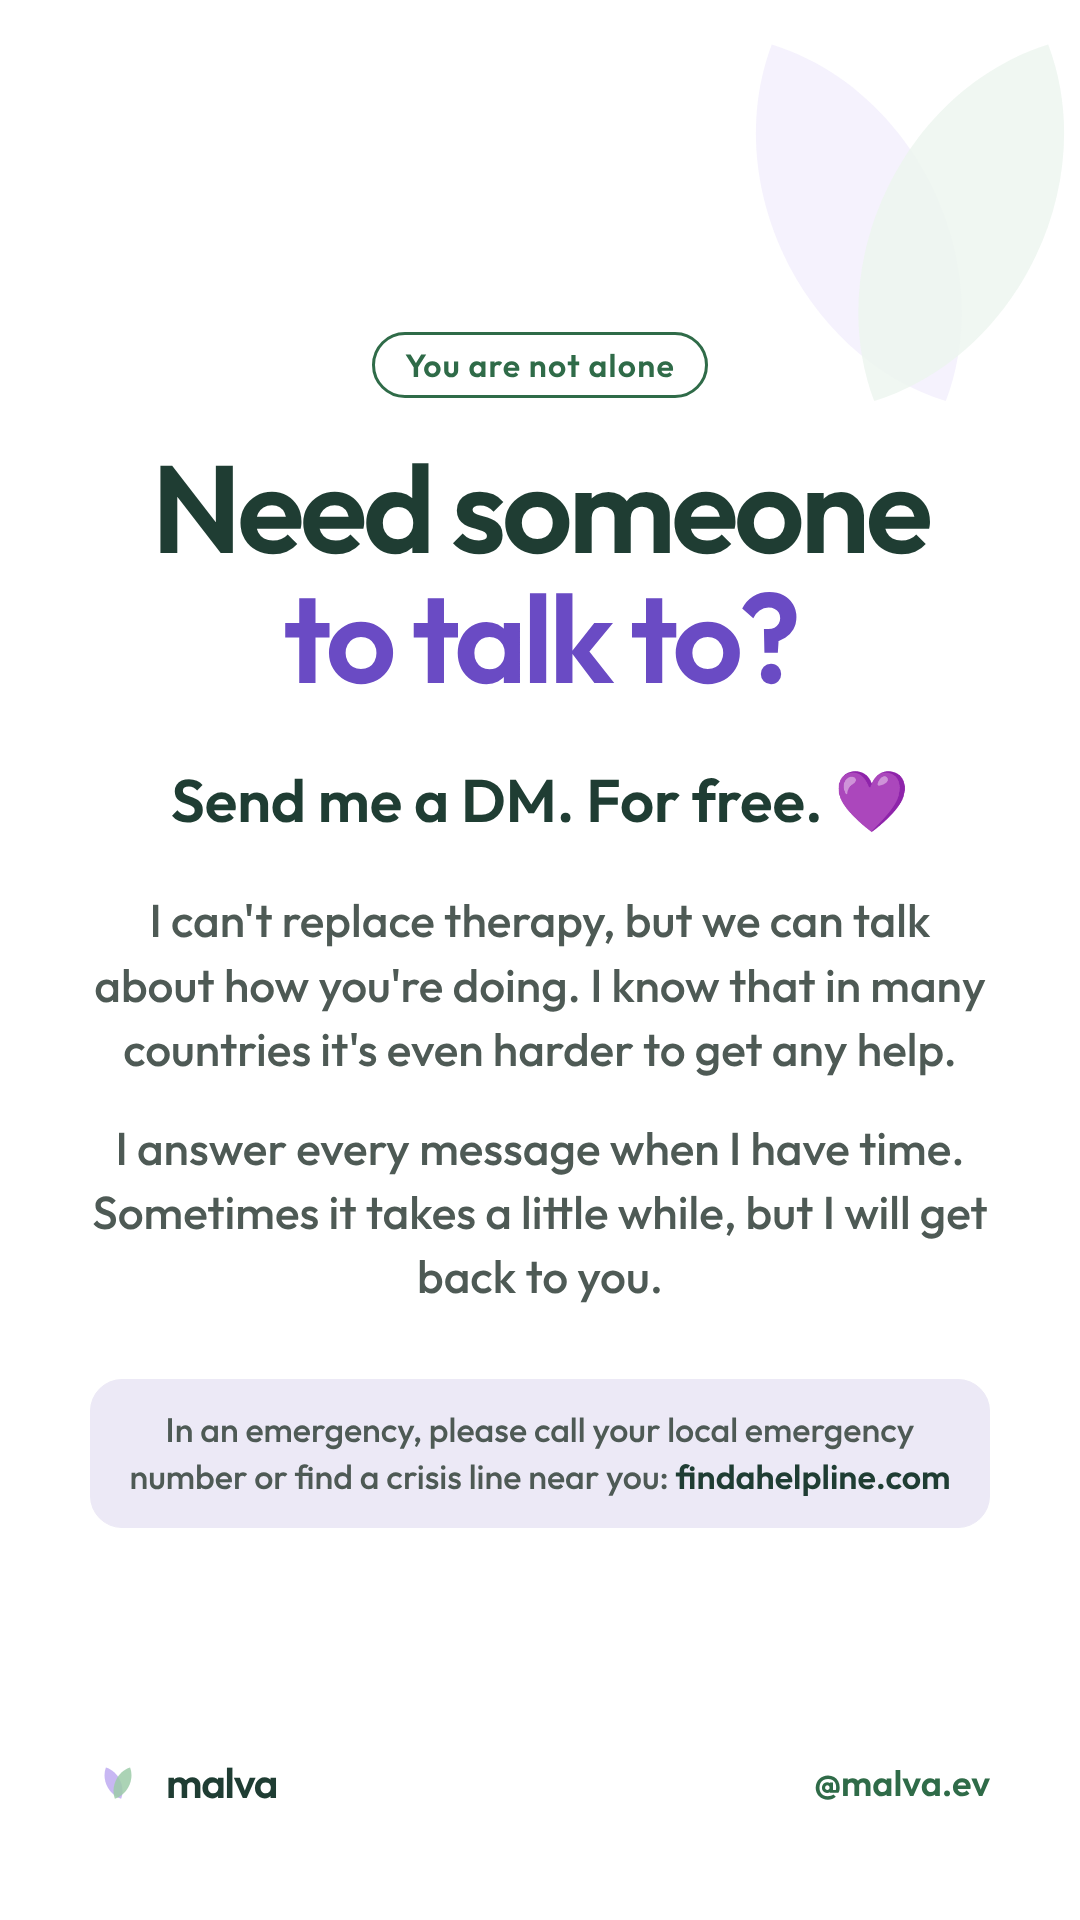
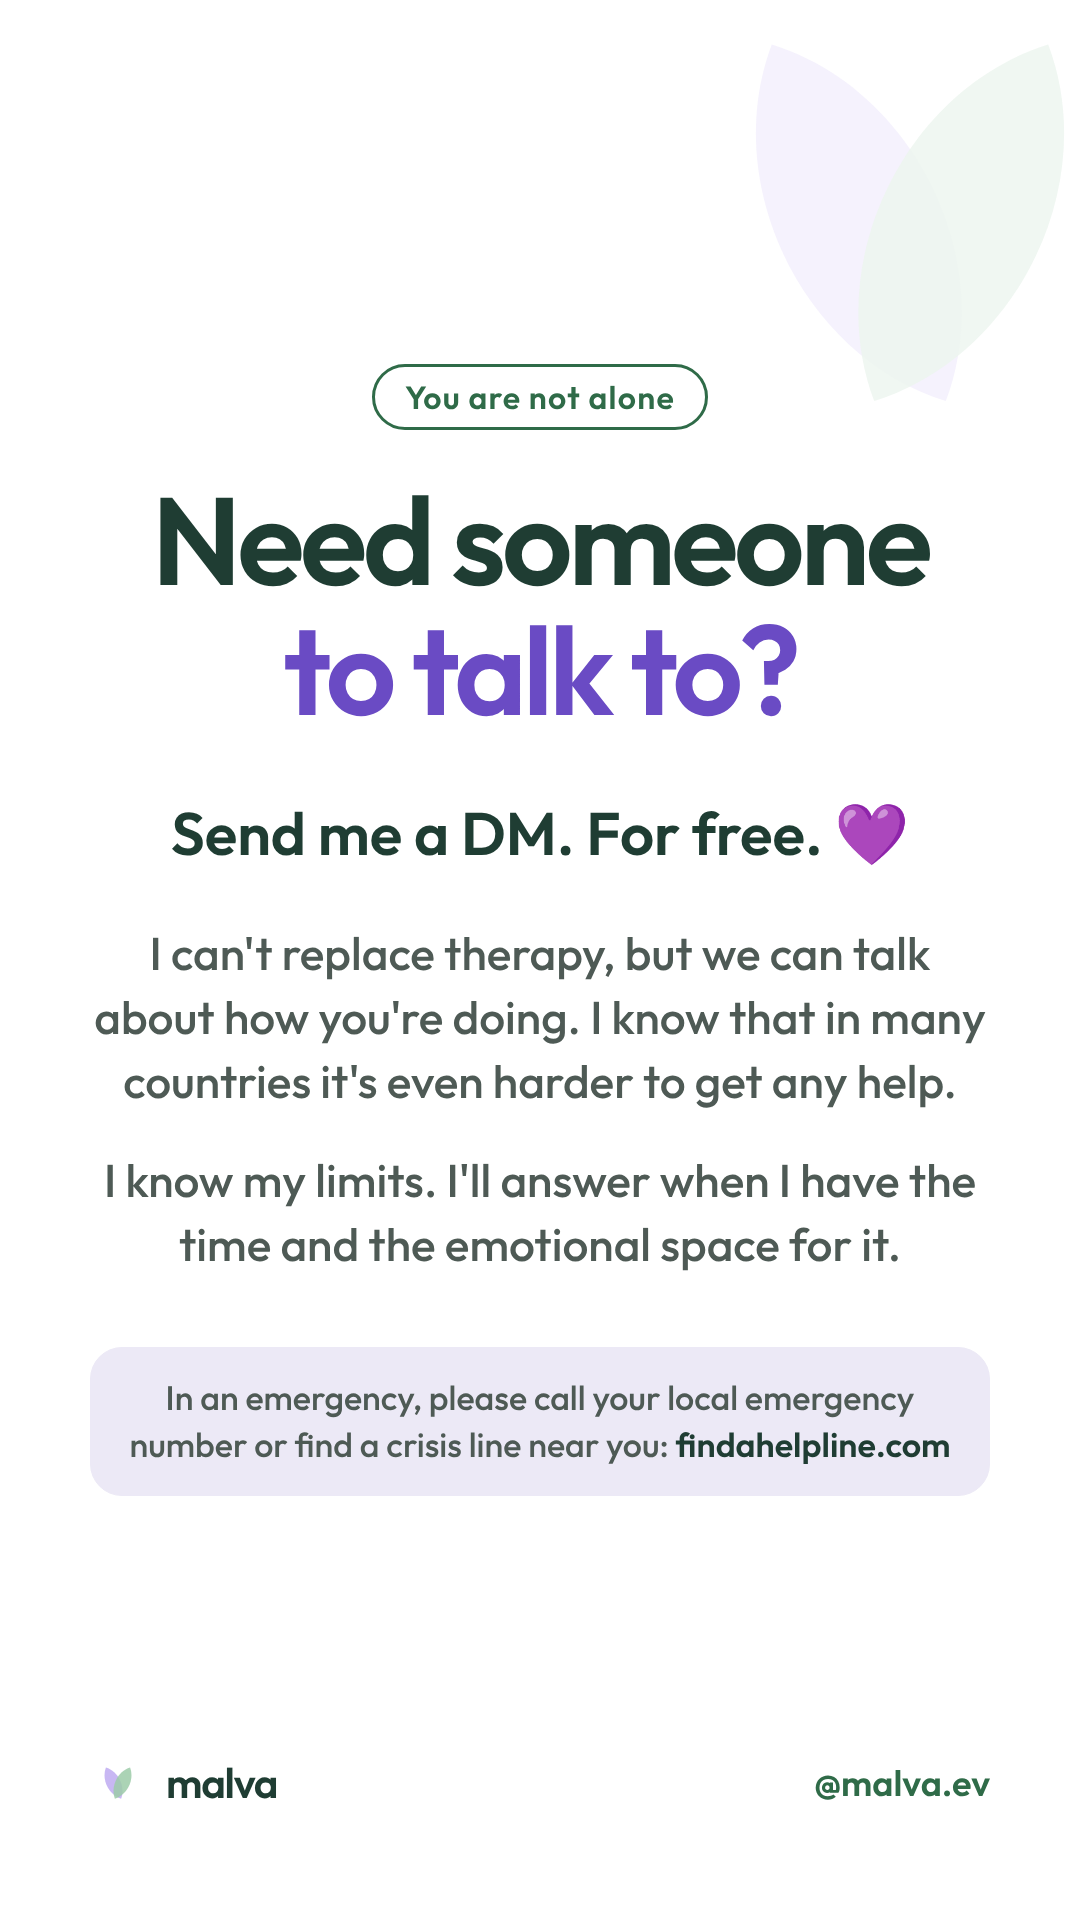
Story Schreib mir: Grenzen
Claude-Session: https://claude.ai/code/session_015uEer6M6e5oi78ZvJtGjnt

Changed region(s): [[0.0917, 0.4062, 0.9167, 0.6875], [0.1528, 0.1875, 0.8556, 0.375], [0.1222, 0.7188, 0.8861, 0.7812]]

diff --git a/malva-website/instagram/giving-tuesday/stories.html b/malva-website/instagram/giving-tuesday/stories.html
@@ -144,7 +144,7 @@ if(kind==='count'){
   <h1 style="font-size:124px">Need someone <span class="hl">to talk to?</span></h1>
   <p class="de" style="font-size:60px;margin-top:56px;color:var(--c);font-weight:600">Send me a DM. For free. 💜</p>
   <p class="de" style="font-size:46px;margin-top:46px;line-height:1.4">I can't replace therapy, but we can talk about how you're doing. I know that in many countries it's even harder to get any help.</p>
-  <p class="de" style="font-size:46px;margin-top:34px;line-height:1.4">I answer every message when I have time. Sometimes it takes a little while, but I will get back to you.</p>
+  <p class="de" style="font-size:46px;margin-top:34px;line-height:1.4">I know my limits. I'll answer when I have the time and the emotional space for it.</p>
   <div class="sos2">In an emergency, please call your local emergency number or find a crisis line near you: <b>findahelpline.com</b></div>
   ${foot}</div>`;
 } else if(kind==='thanks'){
